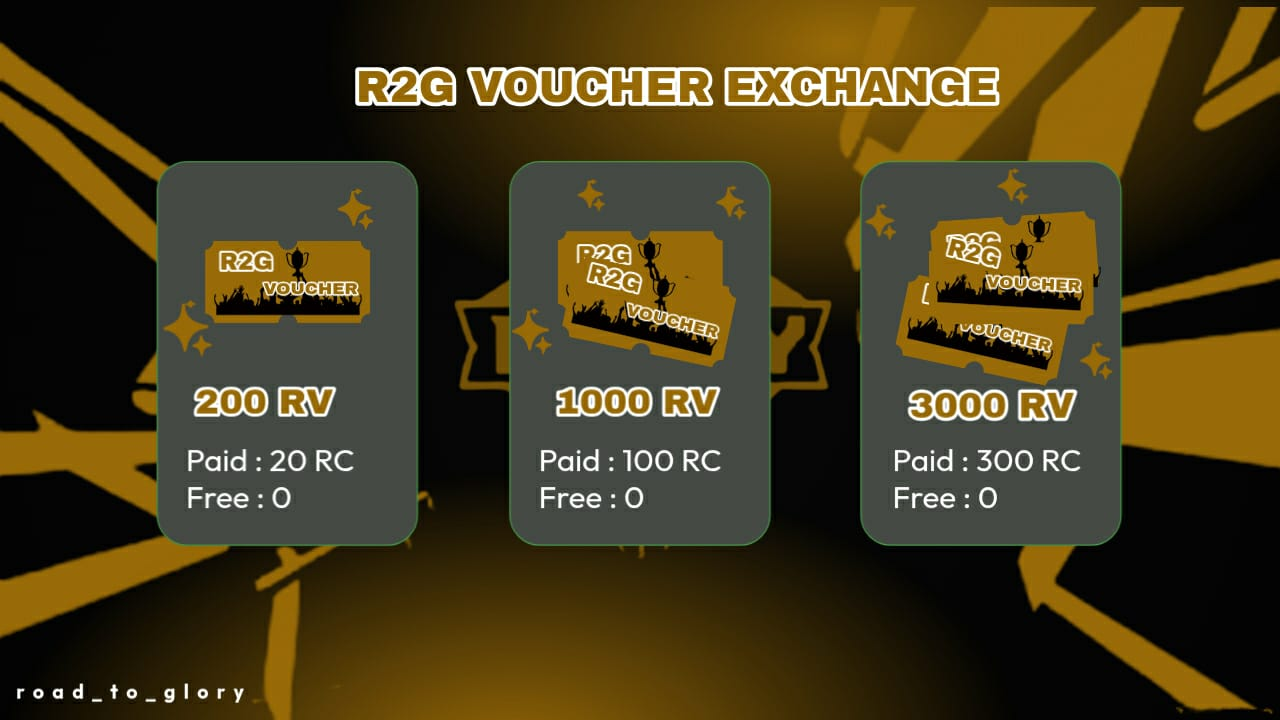
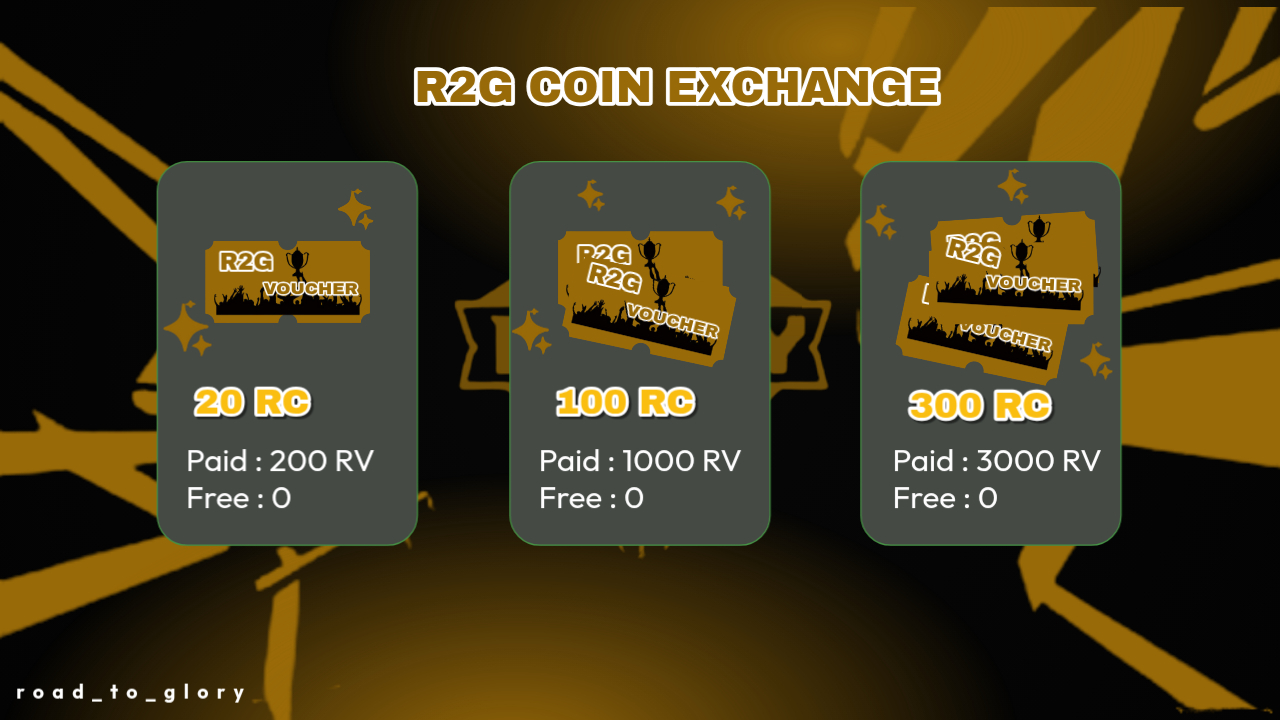
aa

diff --git a/tournament-guide.html b/tournament-guide.html
@@ -348,9 +348,9 @@
                     </div>
                 </div>
                 <div class="guide-section">
-                    <h2 class="section-title"><i class="fas fa-ticket-alt"></i> R2G Voucher Exchange</h2>
+                    <h2 class="section-title"><i class="fas fa-ticket-alt"></i> R2G Coin Exchange</h2>
                     <div class="info-card">
-                        <p>Exchange your vouchers for R2G Coins, Tokens, and other valuable rewards.</p>
+                        <p>Exchange your Coins for R2G Vouchers, Tokens, and other valuable rewards.</p>
                     </div>
                     <img src="assets/images/guide/voucherexchange.jpg" alt="Voucher Exchange" class="guide-img"
                         width="800" height="400">
